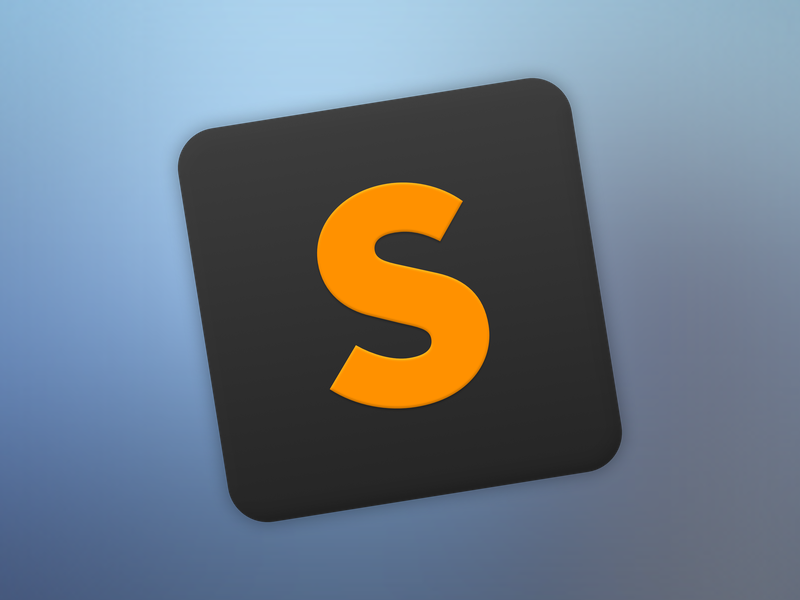
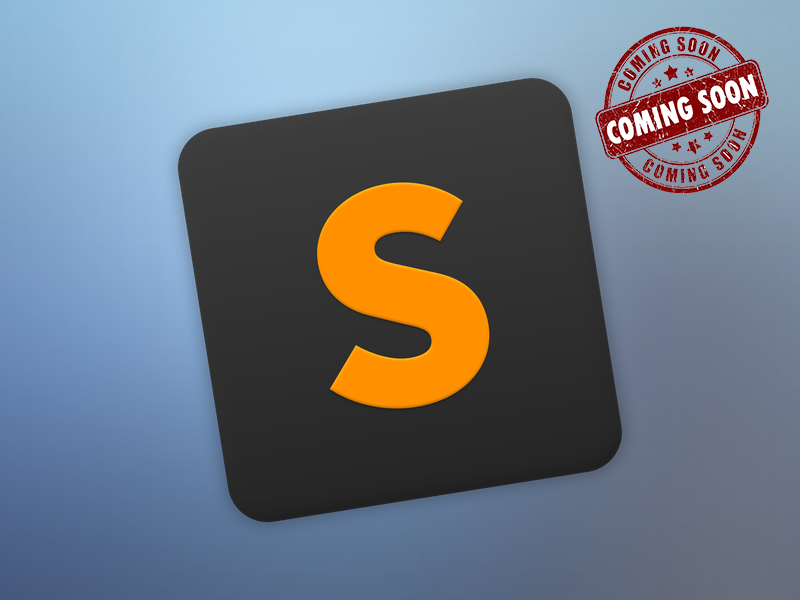
chook first

Changed region(s): [[0.7188, 0.03, 0.9688, 0.33]]

diff --git a/inta/views/autolayout.html b/inta/views/autolayout.html
@@ -230,7 +230,7 @@
     &nbsp;&nbsp;&nbsp;&nbsp;2012年9月份，随着iOS6发布，xcode也发布了4.5版本，在此版本中，第一次加入了此页面的主题--Autolayout。
     <br>&nbsp;&nbsp;&nbsp;&nbsp;也不知道那年苹果的程序猿初衷是什么，怎么设计出了Autolayout这个东西。对于一个把产品当做艺术品的公司来说，硬件的视觉冲击力，软件的用户体验度是无可厚非需要重视的。但是把程序员的编码体验考虑到产品中，苹果做的也算是厚道了。在不写一行代码的情况下，拖拖拽拽来实现页面布局，不仅能适应手机的不同尺寸，而且还能根据横屏竖屏改变页面的布局，一下子为MVC设计模式的view（视图）部分添加了浓重的一笔，让那些编写视图部分的程序员也从视图编写的“手动挡”变成“自动挡”了。
 
-    <br>&nbsp;&nbsp;&nbsp;&nbsp;autolayout视频全集是2015年完成录制的，那个时候接触iOS已经块一年了。当发现搭建UI界面还有如此简单快捷之方法的时候，当时就决定认真研究一下。秉承的还是个人对计算机发展的观点：一切皆为易。 因为autolayout能让界面的编写变得很容易。当然这个观点不仅仅存在于计算机方面，INTA首页的‘一切皆为易’就是让学习也变成一件很容易的事情。秉着这个观点，在此就多吐槽几行了。很多学生面试回来告诉我:“面试官说：‘答的还可以，就是对底层的了解太少了’”  我就告诉学生，你可以对面试官这样说：“如果工作需要对底层的了解，程序为什么不直接用0101来编呢，不会用二进制编，用汇编编写也行啊。再不济，纯C也能完成iOS项目的编写啊，别用OC啊！” 本来就是嘛！计算机科学的发展不仅仅是让人们会使用计算机，而是让更多的人能驾驭计算机。程序员从最早的稀有物种，到现在的满大街游窜，就是计算机的学习变得容易了，不用再去纠结那些深奥的底层理论，越来越多的人都能迈入编程这个门槛。而正是程序员这种多样性的集思广益，才摩擦出赏心悦目的产品。
+    <br>&nbsp;&nbsp;&nbsp;&nbsp;autolayout视频全集是2015年完成录制的，那个时候接触iOS已经快一年了。当发现搭建UI界面还有如此简单快捷之方法的时候，当时就决定认真研究一下。秉承的还是个人对计算机发展的观点：一切皆为易。 因为autolayout能让界面的编写变得很容易。当然这个观点不仅仅存在于计算机方面，INTA首页的‘一切皆为易’就是让学习也变成一件很容易的事情。秉着这个观点，在此就多吐槽几行了。很多学生面试回来告诉我:“面试官说：‘答的还可以，就是对底层的了解太少了’”  我就告诉学生，你可以对面试官这样说：“如果工作需要对底层的了解，程序为什么不直接用0101来编呢，不会用二进制编，用汇编编写也行啊。再不济，纯C也能完成iOS项目的编写啊，别用OC啊！” 本来就是嘛！计算机科学的发展不仅仅是让人们会使用计算机，而是让更多的人能驾驭计算机。程序员从最早的稀有物种，到现在的满大街游窜，就是计算机的学习变得容易了，不用再去纠结那些深奥的底层理论，越来越多的人都能迈入编程这个门槛。而正是程序员这种多样性的集思广益，才摩擦出赏心悦目的产品。
     <br></p>
     <footer>INTA 索勇
     &nbsp;&nbsp;&nbsp;&nbsp;感谢www.raywenderlich.com

diff --git a/inta/views/npm.html b/inta/views/npm.html
@@ -235,7 +235,7 @@
   <h2>那年程序员</h2>
   <p style="color:#708090">javascript, javascript, javascript.</p>
   <blockquote style="border-left-color: #C83B3C;">
-    <p>npm的作者是Isaac Z. Schlueter（艾萨客·施吕特），看这个名字应该是个犹太人，它利用了犹太人独有的天赋与智慧一两天就把npm给完成了。写完以后继续对npm进行开发和维护。当初，他也写了一份js包文件在npm上的发布标准，但是对于初创阶段的艾萨客，根本就没人鸟他。它那时也没有创业资金，资源也有限。但是像很多成功的故事一样，他还是坚持不懈，自己开发javascript的包放到npm上，免费供别人使用。然后，npm从最初的十几个包，到现在的成千上万个包。就连艾萨客自己也没想到npm有如此迅猛的发展趋势，以后的发展差不多就都一样了，就是开办npm公司，出人CEO，跻身高富帅，赢取白富美，走向人生巅峰了... </p>
+    <p>npm的作者是Isaac Z. Schlueter（艾萨客·施吕特），看这个名字应该是个犹太人，它利用了犹太人独有的天赋与智慧一两天就把npm给完成了。写完以后继续对npm进行开发和维护。当初，他也写了一份js包文件在npm上的发布标准，但是对于初创阶段的艾萨客，根本就没人鸟他。它那时也没有创业资金，资源也有限。但是像很多成功的故事一样，他还是坚持不懈，自己开发javascript的包放到npm上，免费供别人使用。然后，npm从最初的十几个包，到现在的成千上万个包。就连艾萨客自己也没想到npm有如此迅猛的发展趋势，以后的发展差不多就都一样了，就是开办npm公司，出任CEO，跻身高富帅，赢取白富美，走向人生巅峰了... </p>
     <footer>摘自 -- <a href="https://gist.github.com/mikeal/8947417">NPM history</a> </footer>
   </blockquote>
 </div>

diff --git a/inta/views/index.html b/inta/views/index.html
@@ -19,7 +19,7 @@
         width: 150px;
         border-radius: 10%;
         /*background-color: #CD853F;*/
-        background-color: #FAFAD2;
+        /*background-color: #891418;*/
         border: 2px solid #A0522d;
         box-shadow: 2px 2px 5px 4px #FAF0E6;
     }
@@ -137,8 +137,8 @@
   </div>
   </div>
 
-  <!-- 3.6 -->
-  <div class="container">
+  <!-- 3.6 敬请期待-->
+<!--   <div class="container">
   <div class="jumbotron">
 
     <div class="media">
@@ -154,7 +154,7 @@
     </div>
 
   </div>
-  </div>
+  </div> -->
 
     <!-- 3.3.0 -->
   <div class="container">
@@ -216,8 +216,8 @@
   </div>
   <!-- 3.5 -->
 
-  <!-- 3.7 -->
-    <div class="container">
+<!-- 3.7 敬请期待-->
+<!--     <div class="container">
   <div class="jumbotron">
 
     <div class="media">
@@ -231,7 +231,7 @@
     </div>
 
   </div>
-  </div>
+  </div> -->
 
   <!-- 3.8 -->
   <div class="container">
@@ -239,13 +239,14 @@
 
     <div class="media">
       <div class="media-left">
-        <a href="/compedium/sublime">
+        <!-- <a href="/compedium/sublime"> -->
           <img src="/images/sublime.png" class="media-object" style="width:200px">
-        </a>
+        <!-- </a> -->
       </div>
       <div class="media-body">
-        <a href="/compedium/sublime"><h3 class="media-heading">Sublime课程</h3></a>
-        <p><small>本套视频讲述了sublime使用，其中包括行sublime编译器的基本使用方法，而且还包括snippet，宏定义，element的一些用法</small></p>
+        <!-- <a href="/compedium/sublime"><h3 class="media-heading">Sublime课程【敬请期待】</h3></a> -->
+        <h3 class="media-heading">Sublime课程【敬请期待】</h3>
+        <p><small>本套视频讲述了sublime使用，其中包括行sublime编译器的基本使用方法，snippet，宏定义，以及开发自己的sublime插件</small></p>
       </div>
     </div>
 

diff --git a/inta/views/express.html b/inta/views/express.html
@@ -259,7 +259,7 @@
   <h2>那年程序员</h2>
   <p style="color:#708090">express让你的Web开发变的一路顺风</p>
   <blockquote>
-    <p>“我不在相信任何人”，这是Doug Wilson说的，3年以来一直维护express框架的程序员。
+    <p>“我不再相信任何人”，这是Doug Wilson说的，3年以来一直维护express框架的程序员。
     <br>在这么一个和谐的社会，尤其在月亮那么圆的美国，Doug Wilson为什么会这么说呢。因为express这个框架让它的作者TJ Holowaychuk给卖了！没错！ 一个开源的express框架，注意是开源的..被卖了。卖给了StrongLoop公司。Give credit where credit is due, TJ是有可赞之处的，因为我们耳熟能详的Express，Koa，Jade，ejs，Stylus, Mocha, Superagent，Commander等等，都是由TJ创建的，由他参与的项目更是数不胜数，起码为开源社区奉献了百万行代码，然而正是这个技术大牛的一失足，使他的名声一落千丈。因为我们都知道作为开源express，是由很多程序员共同奉献完成的。（开源代码怎么能卖，大家去看MIT吧）你这么一卖，等于葬掉了别人的情怀，而Doug Wilson就是被坑的人。而粘上铜臭的express在卖给StrongLoop的两年内没有得到一次pull request,最终移交给了Node Foundation。</p>
     <footer>摘自 --- <a href="http://thefullstack.xyz/history-express-javascript-framework/">《The Unbelievable History of the Express JavaScript Framework》</a></footer><br>
   </blockquote>

diff --git a/inta/views/login.html b/inta/views/login.html
@@ -38,6 +38,9 @@
         background-color: #CD853F;
         border: 2px solid #A0522d
       }
+      .forAd {
+        height: 60px;
+      }
       .imgTitle {
         width: 120px;
         height: 120px;
@@ -49,12 +52,29 @@
   <!-- <div class="container text-center"> -->
   <!-- 第一部分 -->
 <!--   <div class="well well-lg text-center" style="background-color: #F5F5F5"><h1><h1><b style="color: #C71585">I</b><b style="color:#483D8B">N</b><b style="color: #FFD700">T</b><b style="color: #228B22">A</b></h1></h1> -->
-  <div class="well well-lg text-center" style="background-color: #F5F5F5;height: 25vh;">
-  <div class="forImg">
-  <a href="/"><img src="/images/default_1.png" class="imgTitle"></a>
+  <div class="well well-lg text-center" style="background-color:#f5f5f5;height: 25vh;">
+  <div class="row">
+    <div class="col-sm-2">
+        <div class="forImg">
+        <a href="/"><img src="/images/default_1.png" class="imgTitle"></a>
+        </div>
+    </div>
+    <div class="col-sm-5">
+        <div class="forAd">
+        <a href=""><img src="/images/01.jpg"></a>
+        <p>广告服务</p>
+        </div>
+    </div>
+        <div class="col-sm-5">
+        <div class="forAd">
+        <a href=""><img src="/images/04.jpg"></a>
+        <p>广告服务</p>
+        </div>
+    </div>
   </div>
+
   <!-- <h1>登录</h1> -->
-  <p><em>君子性非异也，善假于物业--免费广告。</em></p>
+  <p><em></em></p>
   </div>
   <div class="container text-center" style="height: 56vh;">
   <!-- 第二部分 -->

diff --git a/inta/views/introduction/self.html b/inta/views/introduction/self.html
@@ -162,8 +162,8 @@
   <div class="type1 margin text-center">
 <!--     <p style="color: black; font-weight: 100; font-size: 36px">博学 技艺</p>
     <p style="color: black; font-weight: 100; font-size: 36px">志同 道和</p> -->
-    <img src="/images/Intro/intelligence.png" class="img-responsive img-circle margin">
-    <p class="text1" style="color: black;">INTA求带，请大神，大牛，<br>大哥协作提升网站运行效率，<br>支持多核负载均衡，减少下行响应带宽。拥有数据库安全加密和网站异常错误处理经验，深入理解ssh,ftp,https协议，掌握<br>linux系统。匠心精神。</p>
+    <img src="/images/Intro/interview.jpg" class="img-responsive img-circle margin">
+    <p class="text1" style="color: white;">INTA求带，请大神，大牛，<br>大哥协作提升网站运行效率，<br>支持多核负载均衡，减少下行响应带宽。拥有数据库安全加密和网站异常错误处理经验，深入理解ssh,ftp,https协议，掌握<br>linux系统。匠心精神。</p>
   </div>
   <h3>欢迎加入</h3>
     </div>
@@ -256,7 +256,7 @@
 <!-- Footer -->
 <footer class="container-fluid text-center">
   <p>京ICP备17005313号</p>
-  <p>INTA Theme Made By <a href="http://www.intalesson.com">Suoyong</a></p>
+  <p>INTA Theme Made By Suoyong</p>
   <div style="background-color:#d3d3d0;width:100%;">
    <img src="/images/point.png" style="width: 100px;height: 40px;" />
   </div>

diff --git a/inta/routes/index.js b/inta/routes/index.js
@@ -7,6 +7,9 @@ var cdb = require('../model/cMongo.js')
 
 /* GET home page. */
 router.get('/', function(req, res, next) {
+
+  cdb.cMongoStatic("statistic")
+
   if(req.cookies.intaUserName === undefined) {
   	res.render('index.html',{
   		"flag": 0
@@ -30,6 +33,9 @@ router.get('/', function(req, res, next) {
 
 
 router.get('/compedium/:name',function(req,res,next) {
+  //增加对每个课程点击量的统计
+  cdb.cMongoStatic(req.params.name)
+
   if(req.cookies.intaUserName === undefined) {
   	res.render(req.params.name + '.html',{
   		"flag": 0

diff --git a/inta/views/sass.html b/inta/views/sass.html
@@ -151,7 +151,7 @@
   <h2>那年程序员</h2>
   <p style="color:#708090">以后界面的世界就越来越美了</p>
   <blockquote style="border-left-color: pink;">
-    <p>Sass读起来总感觉像03年非典的sars，在加上其粉色调的主题，又太像小汤山的小护士冒了。太可怕了。
+    <p>Sass读起来总感觉像03年非典的sars，在加上其粉色调的主题，又太像小汤山的小护士帽了。太可怕了。
     <br>为什么会这样子？
     <br>为什么会这样子。
     <br>为什么会这样子！

diff --git a/inta/model/cMongo.js b/inta/model/cMongo.js
@@ -28,6 +28,15 @@ var replyForComment = function(ucid,courseName,userInfo,callback) {
 	})
 }
 
+
+var clickStatistics = function(courseName) {
+	var db = mongojs('INTA',['cliStat'])
+	db.cliStat.update({_id:courseName},{$inc:{"number":1}})
+	db.close()
+	
+}
+
 module.exports.cMongoIcon = connectMongoForIcon
 module.exports.cMongoComment = putMongoForComment
 module.exports.cMongoReply = replyForComment
+module.exports.cMongoStatic = clickStatistics

diff --git a/inta/app.js b/inta/app.js
@@ -63,4 +63,4 @@ app.use('/users', users);
 //   });
 // });
 
-app.listen(80)
+app.listen(3001)
